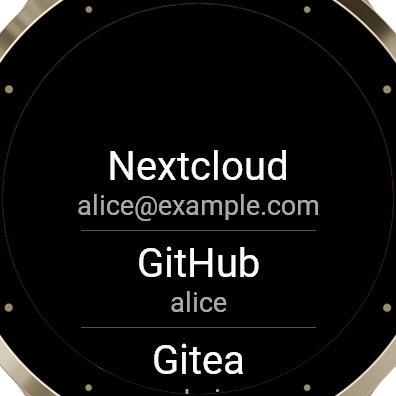
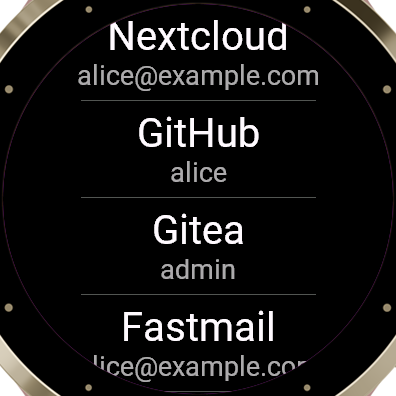
Start the account list at the top, and document sideloading properly
CustomMenu reserves a title band even when no title is given, which pushed
the first account past the middle of the screen and left room for barely
two entries. Zeroing titleItemHeight fits four.

Row labels are now clipped to fit: the top and bottom rows sit where the
round screen is narrowest, and a long issuer would otherwise run off it.

The README had sideloading as a subsection of Building, which assumed a
working SDK and a signing key. It is now a step-by-step Installing section
covering the SDK, generating a key, building and the MTP copy, placed
before Setup — the app has to be on the watch before it can be configured.

Changed region(s): [[0.1818, 0.2727, 0.8182, 1.0], [0.1818, 0.0606, 0.8182, 0.2424]]

diff --git a/README.md b/README.md
@@ -28,7 +28,71 @@ The account list is cached on the watch, so the app opens instantly and keeps
 working with no phone nearby. Only the **Refresh** entry at the bottom of the
 list goes back to the server — launching the app does not.
 
+## Installing
+
+There is no Connect IQ store build — the app is sideloaded, which means
+building it yourself and copying it to the watch.
+
+### 1. Install the Connect IQ SDK
+
+Get it through Garmin's [SDK Manager](https://developer.garmin.com/connect-iq/sdk/),
+which needs a free Garmin account. Install the SDK and the device profile for
+your watch (`venu3s`, `venu3` or `vivoactive5`).
+
+> On a current Linux distro the SDK Manager will not start: it needs
+> `webkit2gtk-4.0` and `libsoup2.4`, which have aged out of every shipping
+> release. Running it in an Ubuntu 22.04 container works.
+
+### 2. Generate a developer key
+
+Every `.prg` has to be signed, even for sideloading. Any RSA key will do — it
+just has to stay the same across rebuilds:
+
+```bash
+mkdir -p ~/.Garmin/keys && cd ~/.Garmin/keys
+openssl genrsa -out developer_key.pem 4096
+openssl pkcs8 -topk8 -inform PEM -outform DER -nocrypt \
+    -in developer_key.pem -out developer_key.der
+chmod 600 developer_key.*
+```
+
+### 3. Build
+
+`build.sh` reads the active SDK from `~/.Garmin/ConnectIQ/current-sdk.cfg` and
+the key from `~/.Garmin/keys/developer_key.der` (override with `DEVELOPER_KEY`):
+
+```bash
+./build.sh
+```
+
+That writes `build/otpmanager-venu3s.prg` and one for each other device.
+
+### 4. Copy it to the watch
+
+Plug the watch in over USB. It enumerates as **MTP**, not as a USB mass storage
+device, so there is no block device to mount — the file goes through the
+desktop's MTP mount instead. On Linux that needs `gvfs-backends` and `libmtp`:
+
+```bash
+cp build/otpmanager-venu3s.prg \
+   "$(ls -d /run/user/$UID/gvfs/mtp*/Internal\ Storage)/GARMIN/APPS/"
+```
+
+On macOS use [Android File Transfer](https://www.android.com/filetransfer/), and
+on Windows the watch appears in Explorer. In every case the destination is
+`GARMIN/APPS/` on the watch's internal storage.
+
+Unplug the watch. The app appears in the activity/app list as **OTP Manager**.
+To update it later, copy a new `.prg` over the old one; to remove it, delete the
+file.
+
+> Sideloading involves no Garmin account — that is only needed to download the
+> SDK in the first place.
+
 ## Setup
+
+Do this after the app is on the watch. It will say so on launch if the settings
+are missing.
 
 ### 1. Create a Nextcloud app password
 
@@ -82,11 +146,7 @@ than per secret, and there is no authentication tag, so a wrong password is
 detected only by an implausible PKCS#7 padding. That is upstream's design, not
 this app's, and this app is deliberately bug-compatible with it.
 
-## Building
-
-Needs the Connect IQ SDK and a developer key. `build.sh` reads the active SDK
-from `~/.Garmin/ConnectIQ/current-sdk.cfg` and the key from
-`~/.Garmin/keys/developer_key.der` (override with `DEVELOPER_KEY`):
+## Development
 
 ```bash
 ./build.sh              # one signed .prg per device, into build/
@@ -97,21 +157,10 @@ The tests cover base32 decoding, the RFC 6238 vectors for SHA-1 and SHA-256,
 and AES decryption against a ciphertext produced the way the server produces
 one. They run on the device VM, not on a host reimplementation.
 
-On a current Linux distro the SDK's simulator will not start: it needs
-`webkit2gtk-4.0` and `libsoup2.4`, which have aged out of every shipping
-release. Running it in an Ubuntu 22.04 container works — that container also
-needs `libusb-1.0-0`.
-
-### Sideloading
-
-The watch enumerates as MTP, so copy the `.prg` across rather than mounting it:
-
-```bash
-cp build/otpmanager-venu3s.prg \
-   "$(ls -d /run/user/$UID/gvfs/mtp*/Internal\ Storage)/GARMIN/APPS/"
-```
-
-The app appears after unplugging.
+The simulator has the same `webkit2gtk-4.0` problem as the SDK Manager, and in
+a container it also needs `libusb-1.0-0`. Run it with host networking:
+`monkeydo` is Java, has no counterpart inside the image, and reaches the
+simulator on `localhost:1234`.
 
 ## Licence
 
